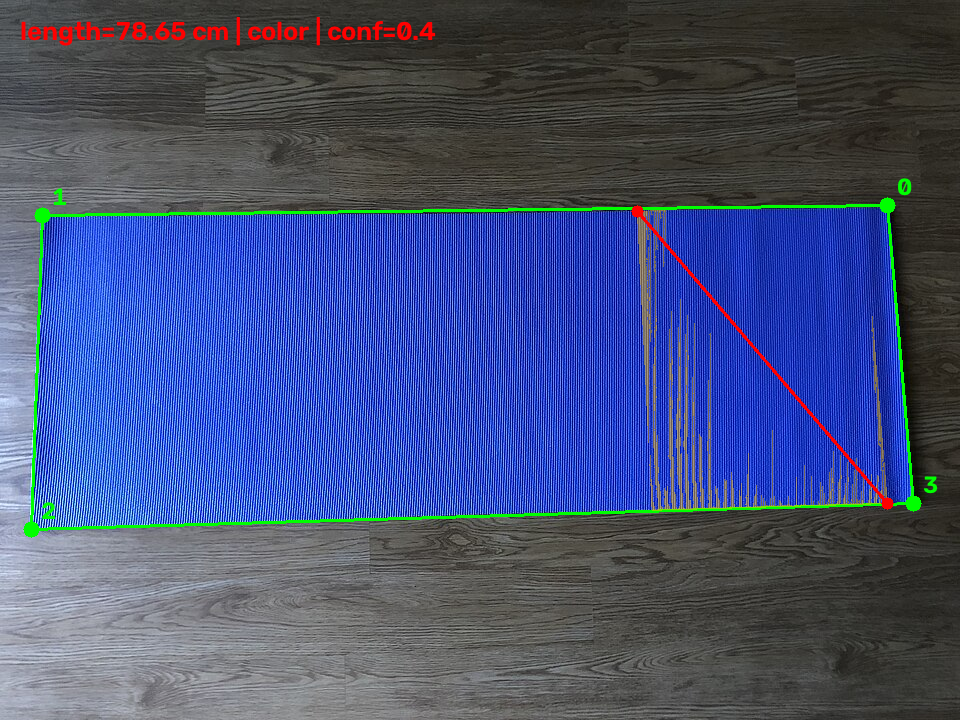
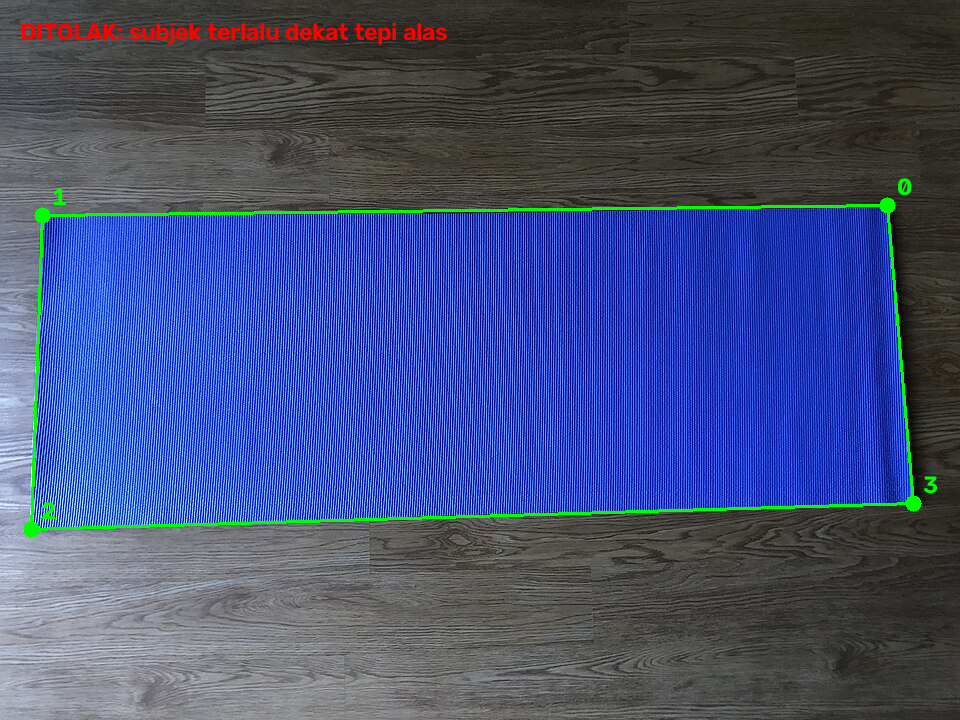
fix(cv): reviewer round-4 — subject-edge gate, honest evidence, runner fixes
- pipeline: gate 'subjek terlalu dekat tepi alas' (margin 4%) -- bayangan/
  tekstur tepi pada alas kosong tidak lagi terukur sebagai badan (regresi
  round-4: Gaim mat kosong 78.65cm -> sekarang ditolak).
- runner: det_px_ratio (rasio sisi quad di ruang piksel -- independen
  dari spec, bukan tautologi homografi); dukungan .avif via ffmpeg;
  manifest BGR eksplisit (mat_color_b/g/r); nama baris bayi dianonimkan
  (baby-01..) di report; contoh manifest diperbaiki.
- estimate: hapus head_aspect tak terpakai; test mirror menegaskan
  method=head_prior + diameter kepala.
- mat_corners tests: distractor jauh (frame besar, rasio spec benar),
  alas terbelah strip 10px (morph close menyatukan), unit test langsung
  _plausible_mat (ring checker kontras tinggi ditolak).

diff --git a/scripts/run_cv_experiments.py b/scripts/run_cv_experiments.py
@@ -10,10 +10,11 @@ visual untuk tiap foto, lalu menulis:
 - experiments/results/report.csv                  (tabel hasil lengkap)
 
 Konfigurasi per gambar: `experiments/manifest.csv` (opsional) dengan kolom
-image, mat_width_cm, mat_height_cm, mat_color_r/g/b. Gambar tanpa baris
-manifest memakai spesifikasi produk (60x100 cm, warna standar). Contoh
-baris untuk foto yoga mat biru (Wikimedia, standar 183x61 cm):
-    Gaim_Yoga_Mat_1_2019-05-15.jpg,mats,183,61,199,66,37
+image, mat_width_cm, mat_height_cm, mat_color_b/g/r (BGR, sama dengan
+konvensi cv/). Gambar tanpa baris manifest memakai spesifikasi produk
+(60x100 cm, warna standar). Contoh baris untuk foto yoga mat biru
+(Wikimedia, standar 183x61 cm):
+    Gaim_Yoga_Mat_1_2019-05-15.jpg,183,61,199,66,37
 
 Kolom report:
 - group       : subfolder sumber (mats / babies / ...)
@@ -50,7 +51,7 @@ from cv.segment import ColorSegmenter
 ROOT = Path(__file__).resolve().parent.parent
 SRC = ROOT / "experiments" / "src"
 OUT = ROOT / "experiments" / "results"
-EXT = {".jpg", ".jpeg", ".png"}
+EXT = {".jpg", ".jpeg", ".png", ".avif"}   # .avif dikonversi via ffmpeg
 MANIFEST = ROOT / "experiments" / "manifest.csv"
 
 
@@ -65,9 +66,9 @@ def _load_manifest() -> dict[str, dict]:
             spec = MatSpec(width_cm=float(row["mat_width_cm"]),
                            height_cm=float(row["mat_height_cm"]))
             color = None
-            if row.get("mat_color_r", "").strip():
-                color = (int(row["mat_color_r"]), int(row["mat_color_g"]),
-                         int(row["mat_color_b"]))
+            if row.get("mat_color_b", "").strip():
+                color = (int(row["mat_color_b"]), int(row["mat_color_g"]),
+                         int(row["mat_color_r"]))
             out[img] = {"spec": spec, "mat_color": color}
     return out
 
@@ -99,8 +100,17 @@ def main() -> None:
     overlay_dir.mkdir(parents=True, exist_ok=True)
 
     rows = []
+    baby_counter = 0
     for path in images:
         img = cv2.imread(str(path))
+        if img is None and path.suffix.lower() == ".avif":
+            import subprocess
+            tmp = OUT / "overlay" / "_tmp_avif.png"
+            tmp.parent.mkdir(parents=True, exist_ok=True)
+            subprocess.run(["ffmpeg", "-y", "-i", str(path), str(tmp)],
+                           check=True, capture_output=True)
+            img = cv2.imread(str(tmp))
+            tmp.unlink(missing_ok=True)
         if img is None:
             print(f"[skip] tidak terbaca: {path}")
             continue
@@ -121,13 +131,13 @@ def main() -> None:
         )
         latency_ms = round((time.perf_counter() - t0) * 1000, 1)
 
-        # Dimensi quad terdeteksi (bukti geometri; mis. yoga mat 183x61).
-        det_w = det_h = ""
+        # Rasio sisi quad di RUANG PIKsel (independen dari spec -- bukan
+        # tautologi homografi). Yoga mat asli ~3.0.
+        det_px_ratio = ""
         if det_prod.ok:
-            from cv.aruco import apply_homography
-            pts = apply_homography(det_prod.homography, det_prod.image_points)
-            det_w = round(float(np.linalg.norm(pts[1] - pts[0])), 1)
-            det_h = round(float(np.linalg.norm(pts[2] - pts[1])), 1)
+            p = det_prod.image_points
+            sides = sorted(np.linalg.norm(p[(i + 1) % 4] - p[i]) for i in range(4))
+            det_px_ratio = round(sides[2] / max(1.0, sides[0]), 2)
 
         estimate = None
         if not res.ok and "alas tidak terdeteksi" in "; ".join(res.qc_reasons):
@@ -149,13 +159,15 @@ def main() -> None:
         group_dir.mkdir(parents=True, exist_ok=True)
         cv2.imwrite(str(group_dir / f"{path.stem}.png"), overlay)
 
+        if path.parent.name == "babies":
+            baby_counter += 1
         rows.append({
             "group": path.parent.name,
-            "image": path.name,
+            "image": (f"baby-{baby_counter:02d}"
+                      if path.parent.name == "babies" else path.name),
             "det_nocolor": det_plain.ok,
             "det_color": det_prod.ok,
-            "det_w_cm": det_w,
-            "det_h_cm": det_h,
+            "det_px_ratio": det_px_ratio,
             "reason": "; ".join(res.qc_reasons) if not res.ok else "",
             "length_cm": res.length_cm if res.ok else "",
             "confidence": res.confidence if res.ok else "",

diff --git a/tests/test_cv_mat_corners.py b/tests/test_cv_mat_corners.py
@@ -169,3 +169,46 @@ def test_distractor_sewarna_jauh_tidak_ikut_tergabung():
     assert det.ok, det.reason
     expected = np.array([[x0, y0], [x1, y0], [x1, y1], [x0, y1]], dtype=np.float64)
     assert np.allclose(det.image_points, expected, atol=3.0)
+
+
+def test_distractor_sewarna_jauh_dengan_frame_besar():
+    # Frame besar: distractor sewarna di tempat yang BENAR-BENAR terpisah
+    # (> kernel close & > pad bbox) -- tidak ikut tergabung (regresi r4).
+    img = np.full((1200, 1200, 3), 230, np.uint8)
+    img[100:1100, 250:850] = STANDARD_MAT_COLOR     # 600x1000 px = 60:100
+    img[950:1000, 1050:1150] = STANDARD_MAT_COLOR   # distractor jauh
+    det = detect_mat_corners(img, SPEC, mat_color=STANDARD_MAT_COLOR)
+    assert det.ok, det.reason
+    expected = np.array([[250, 100], [850, 100], [850, 1100], [250, 1100]],
+                        dtype=np.float64)
+    assert np.allclose(det.image_points, expected, atol=3.0)
+
+
+def test_alas_terbelah_bayangan_tetap_tergabung():
+    # Alas terbelah jadi 2 komponen oleh strip bayangan (kroma beda):
+    # penggabungan spasial harus menyatukannya -> terdeteksi (regresi r4).
+    img = np.full((440, 520, 3), 230, np.uint8)
+    img[20:420, 60:300] = STANDARD_MAT_COLOR
+    img[20:420, 175:185] = (90, 90, 90)              # strip bayangan 10px
+    det = detect_mat_corners(img, SPEC, mat_color=STANDARD_MAT_COLOR)
+    assert det.ok, det.reason
+    expected = np.array([[60, 20], [300, 20], [300, 420], [60, 420]],
+                        dtype=np.float64)
+    assert np.allclose(det.image_points, expected, atol=3.0)
+
+
+def test_plausible_mat_ring_chroma_langsung():
+    # Unit test langsung _plausible_mat: quad bersih lolos; ring berpola
+    # ekstrem ditolak oleh cek kroma ring.
+    from cv.mat_corners import _plausible_mat
+
+    img = np.full((440, 520, 3), 230, np.uint8)
+    img[20:420, 60:300] = STANDARD_MAT_COLOR
+    quad = np.array([[60, 20], [300, 20], [300, 420], [60, 420]], np.float64)
+    assert _plausible_mat(img, quad, mat_color=STANDARD_MAT_COLOR)
+    # Checker kontras tinggi menutupi ring: std luminansi ring > ambang.
+    for y in range(21, 29):
+        for x in range(61, 299, 16):
+            img[y, x:x + 8] = (0, 0, 0)
+            img[y, x + 8:x + 16] = (255, 255, 255)
+    assert not _plausible_mat(img, quad, mat_color=STANDARD_MAT_COLOR)

diff --git a/cv/pipeline.py b/cv/pipeline.py
@@ -34,6 +34,9 @@ from cv.segment import BaseSegmenter, ColorSegmenter, endpoints_from_mask, get_s
 LOW_CONFIDENCE = 0.4
 POSTURE_PENALTY_PER_REASON = 0.25
 POSTURE_PENALTY_CAP = 0.6
+# Margin subjek dari tepi alas (fraksi dimensi citra teregistrasi):
+# bayangan tepi alas tidak boleh terukur sebagai badan.
+SUBJECT_EDGE_MARGIN_FRAC = 0.04
 
 
 def _default_reference_detector(image, mat_spec):
@@ -112,11 +115,16 @@ def measure_length(
         return MeasurementResult(ok=False, model=seg.model, qc_reasons=[seg.reason],
                                  latency_s=time.perf_counter() - t0)
 
-    # QC framing tubuh (V3): subjek menyentuh tepi citra teregistrasi = terpotong.
-    if (seg.mask[:2, :].any() or seg.mask[-2:, :].any()
-            or seg.mask[:, :2].any() or seg.mask[:, -2:].any()):
+    # QC framing tubuh (V3): subjek harus di dalam alas dengan margin.
+    # Bayangan/tekstur tepi alas membentuk "subjek" palsu yang menempel
+    # tepi; badan bayi sesuai protokol berada di dalam dengan margin.
+    h_r, w_r = rect.shape[:2]
+    m = SUBJECT_EDGE_MARGIN_FRAC
+    ys, xs = np.nonzero(seg.mask)
+    if (xs.min() < m * w_r or xs.max() > (1 - m) * w_r
+            or ys.min() < m * h_r or ys.max() > (1 - m) * h_r):
         return MeasurementResult(ok=False, model=seg.model,
-                                 qc_reasons=["tubuh terpotong bingkai"],
+                                 qc_reasons=["subjek terlalu dekat tepi alas"],
                                  latency_s=time.perf_counter() - t0)
 
     end_rect = endpoints_from_mask(seg.mask)

diff --git a/tests/test_cv_pipeline.py b/tests/test_cv_pipeline.py
@@ -81,7 +81,7 @@ def test_tubuh_terpotong_bingkai_ditolak():
     res = measure_length(img2, SPEC, segmenter=ColorSegmenter(), detector=detect_markers,
                          **_pipeline_kwargs(img2))
     assert not res.ok
-    assert any("terpotong" in r for r in res.qc_reasons)
+    assert any("dekat tepi" in r or "terpotong" in r for r in res.qc_reasons)
 
 
 def test_fallback_segmenter_otomatis_saat_primary_gagal():
@@ -117,3 +117,18 @@ def test_fallback_tidak_dipakai_saat_segmenter_sama():
     res = measure_length(img, SPEC, segmenter=ColorSegmenter(),
                          image_qc=ImageQC(min_blur_var=1.0))
     assert not res.ok
+
+
+def test_alas_tanpa_badan_ditolak():
+    """Mat kosong: bayangan/tekstur tepi bukan subjek sah (regresi round-4)."""
+    from _cv_synth import synth_plain_mat
+
+    img, _, box = synth_plain_mat()
+    x0, y0, x1, y1 = box
+    # Simulasikan "bayangan": strip sewarna-badan menempel tepi atas alas.
+    img2 = img.copy()
+    cv2.rectangle(img2, (x0 + 10, y0 - 4), (x1 - 10, y0 + 14), (30, 120, 200), -1)
+    res = measure_length(img2, SPEC, segmenter=ColorSegmenter(),
+                         image_qc=ImageQC(min_blur_var=1.0))
+    assert not res.ok, "bayangan tepi tidak boleh terukur sebagai badan"
+    assert any("dekat tepi" in r for r in res.qc_reasons)

diff --git a/tests/test_cv_estimate.py b/tests/test_cv_estimate.py
@@ -71,6 +71,8 @@ def test_kepala_di_ujung_lain_tetap_terukur():
     flipped = img[:, ::-1].copy()
     r = estimate_length_no_reference(flipped)
     assert r.ok, r.reasons
+    assert r.method == "head_prior", "kepala di ujung MAX harus terdeteksi"
+    assert r.head_diameter_px == pytest.approx(head_px, rel=0.10)
     assert r.length_cm == pytest.approx(total_cm, rel=0.10)
 
 

diff --git a/cv/estimate.py b/cv/estimate.py
@@ -89,7 +89,6 @@ def estimate_length_no_reference(
     #    berpakaian tidak mengganggu karena profil dihitung pada piksel
     #    KULIT saja.
     head_px = _head_diameter_px(image, seg.mask, span_px)
-    head_aspect = None
 
     # 3. Gerbang fisiologis + kebulatan: prior kepala hanya untuk kamera
     #    mendekati tegak lurus (kepala tampak bulat, rasio ~0.15-0.32).
